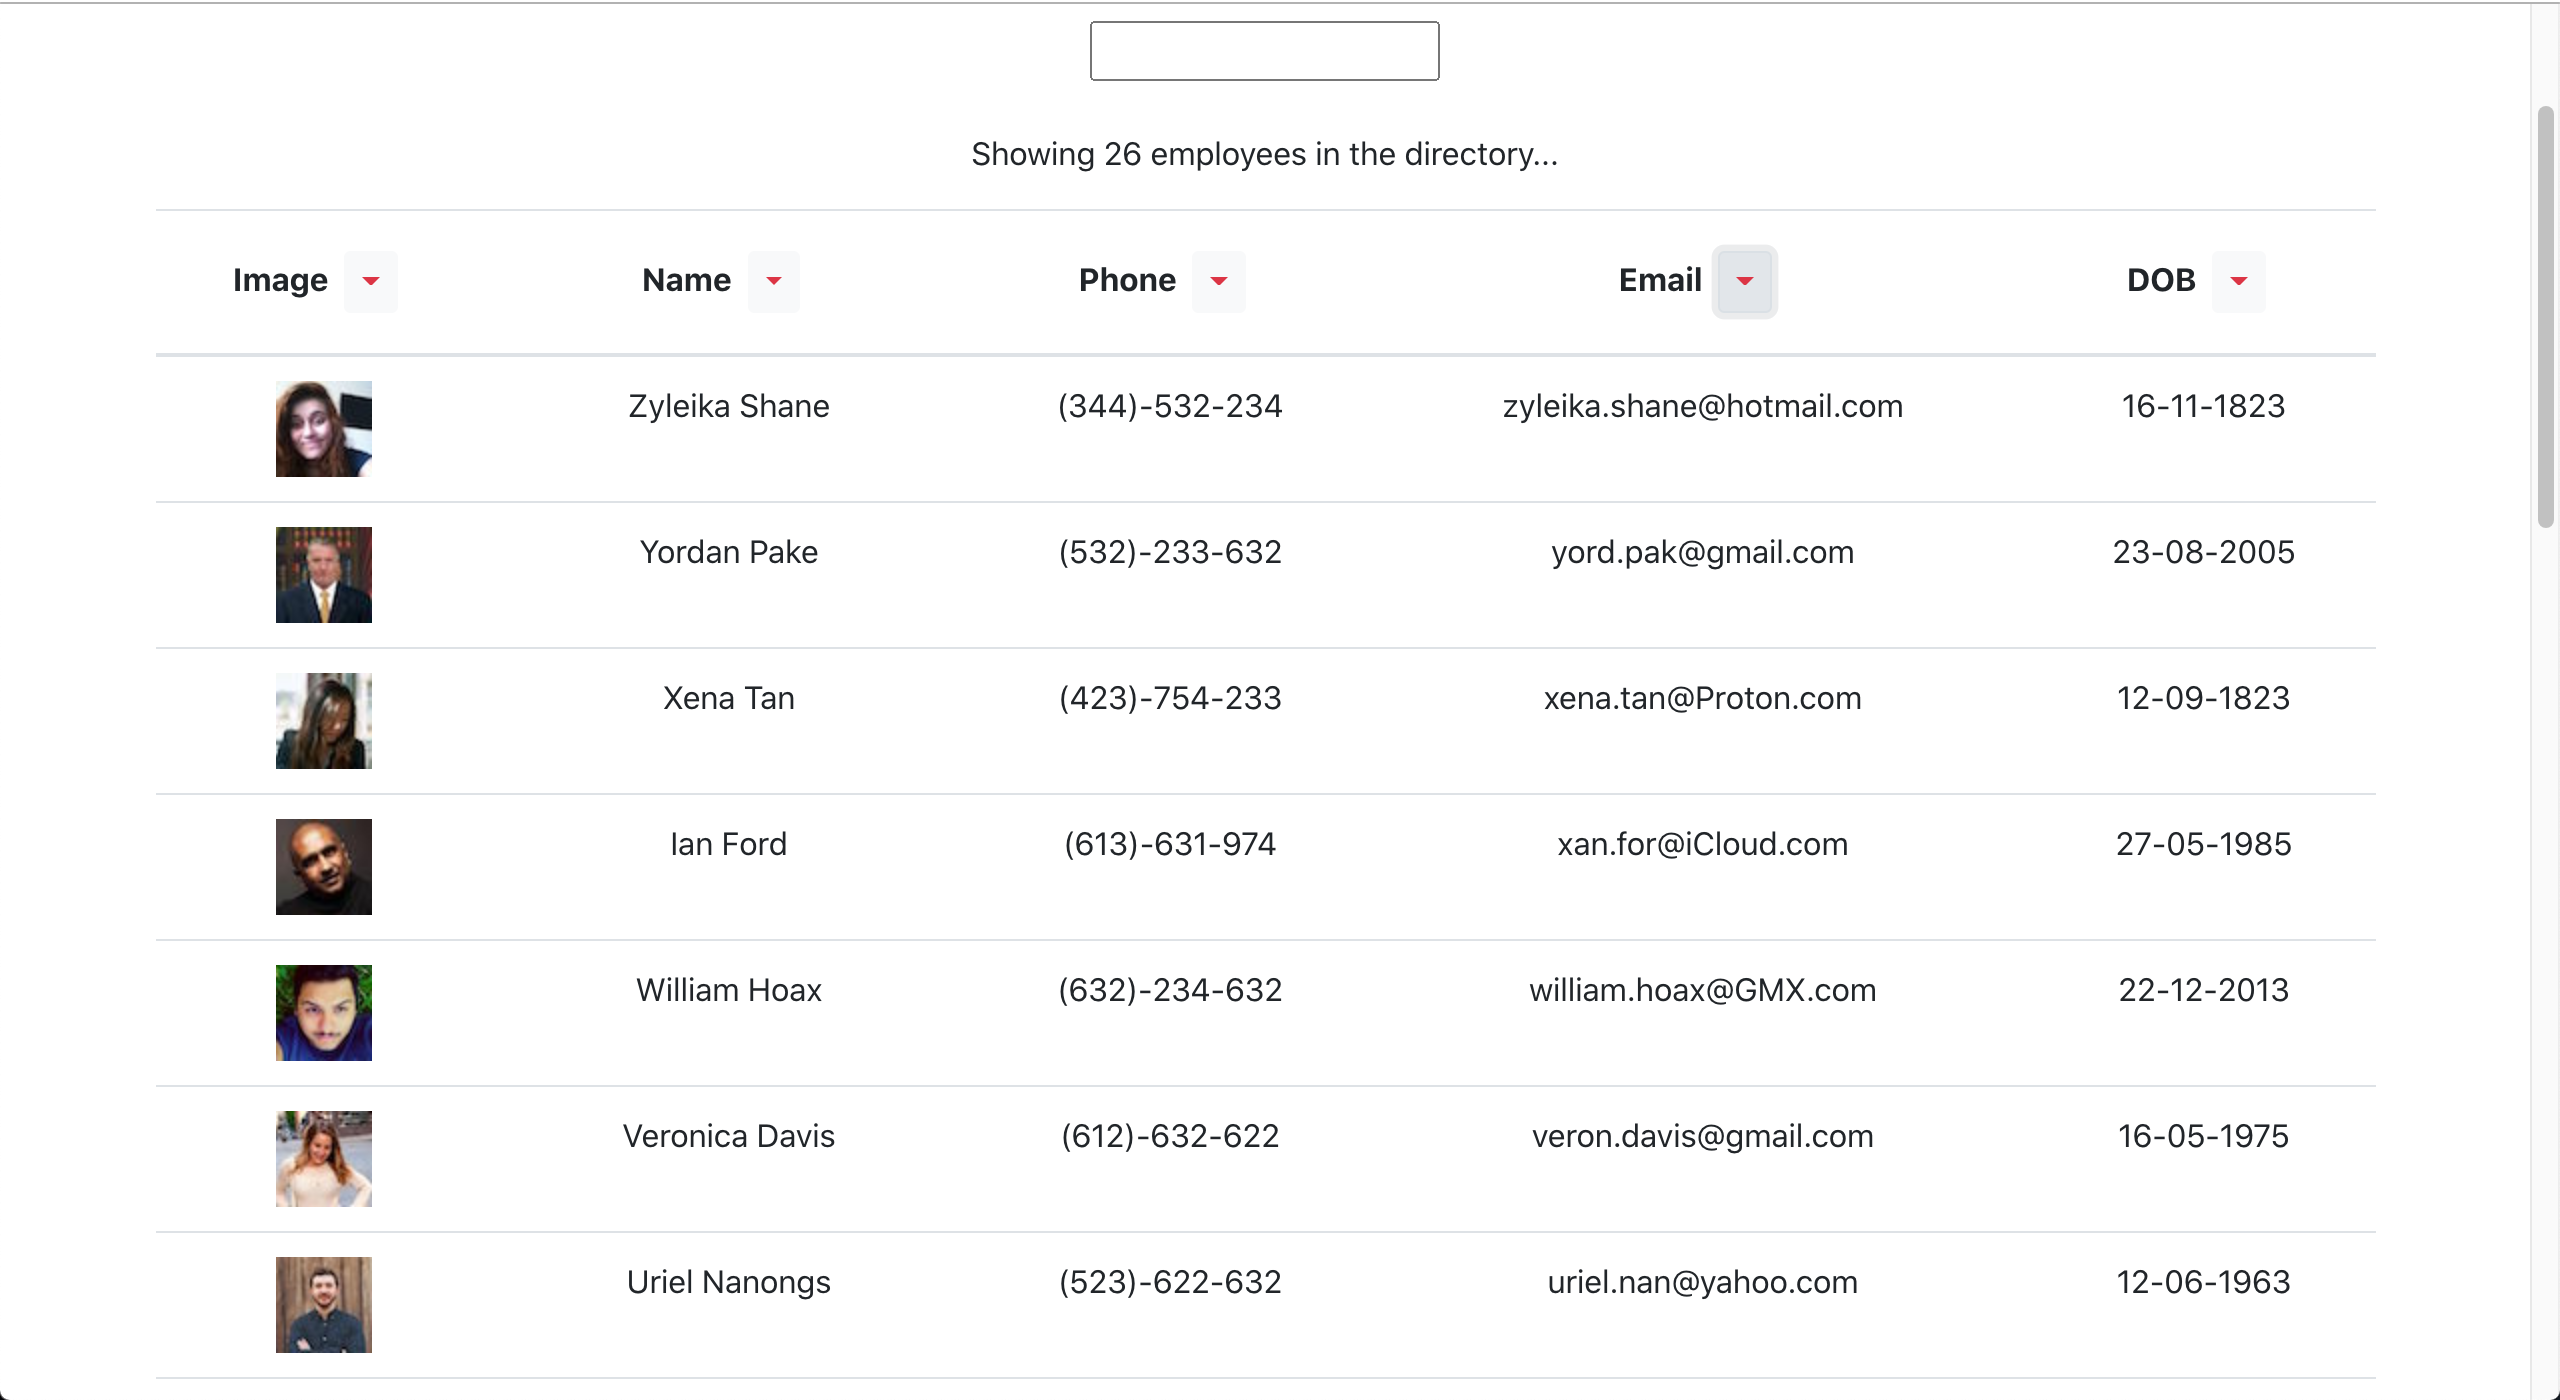
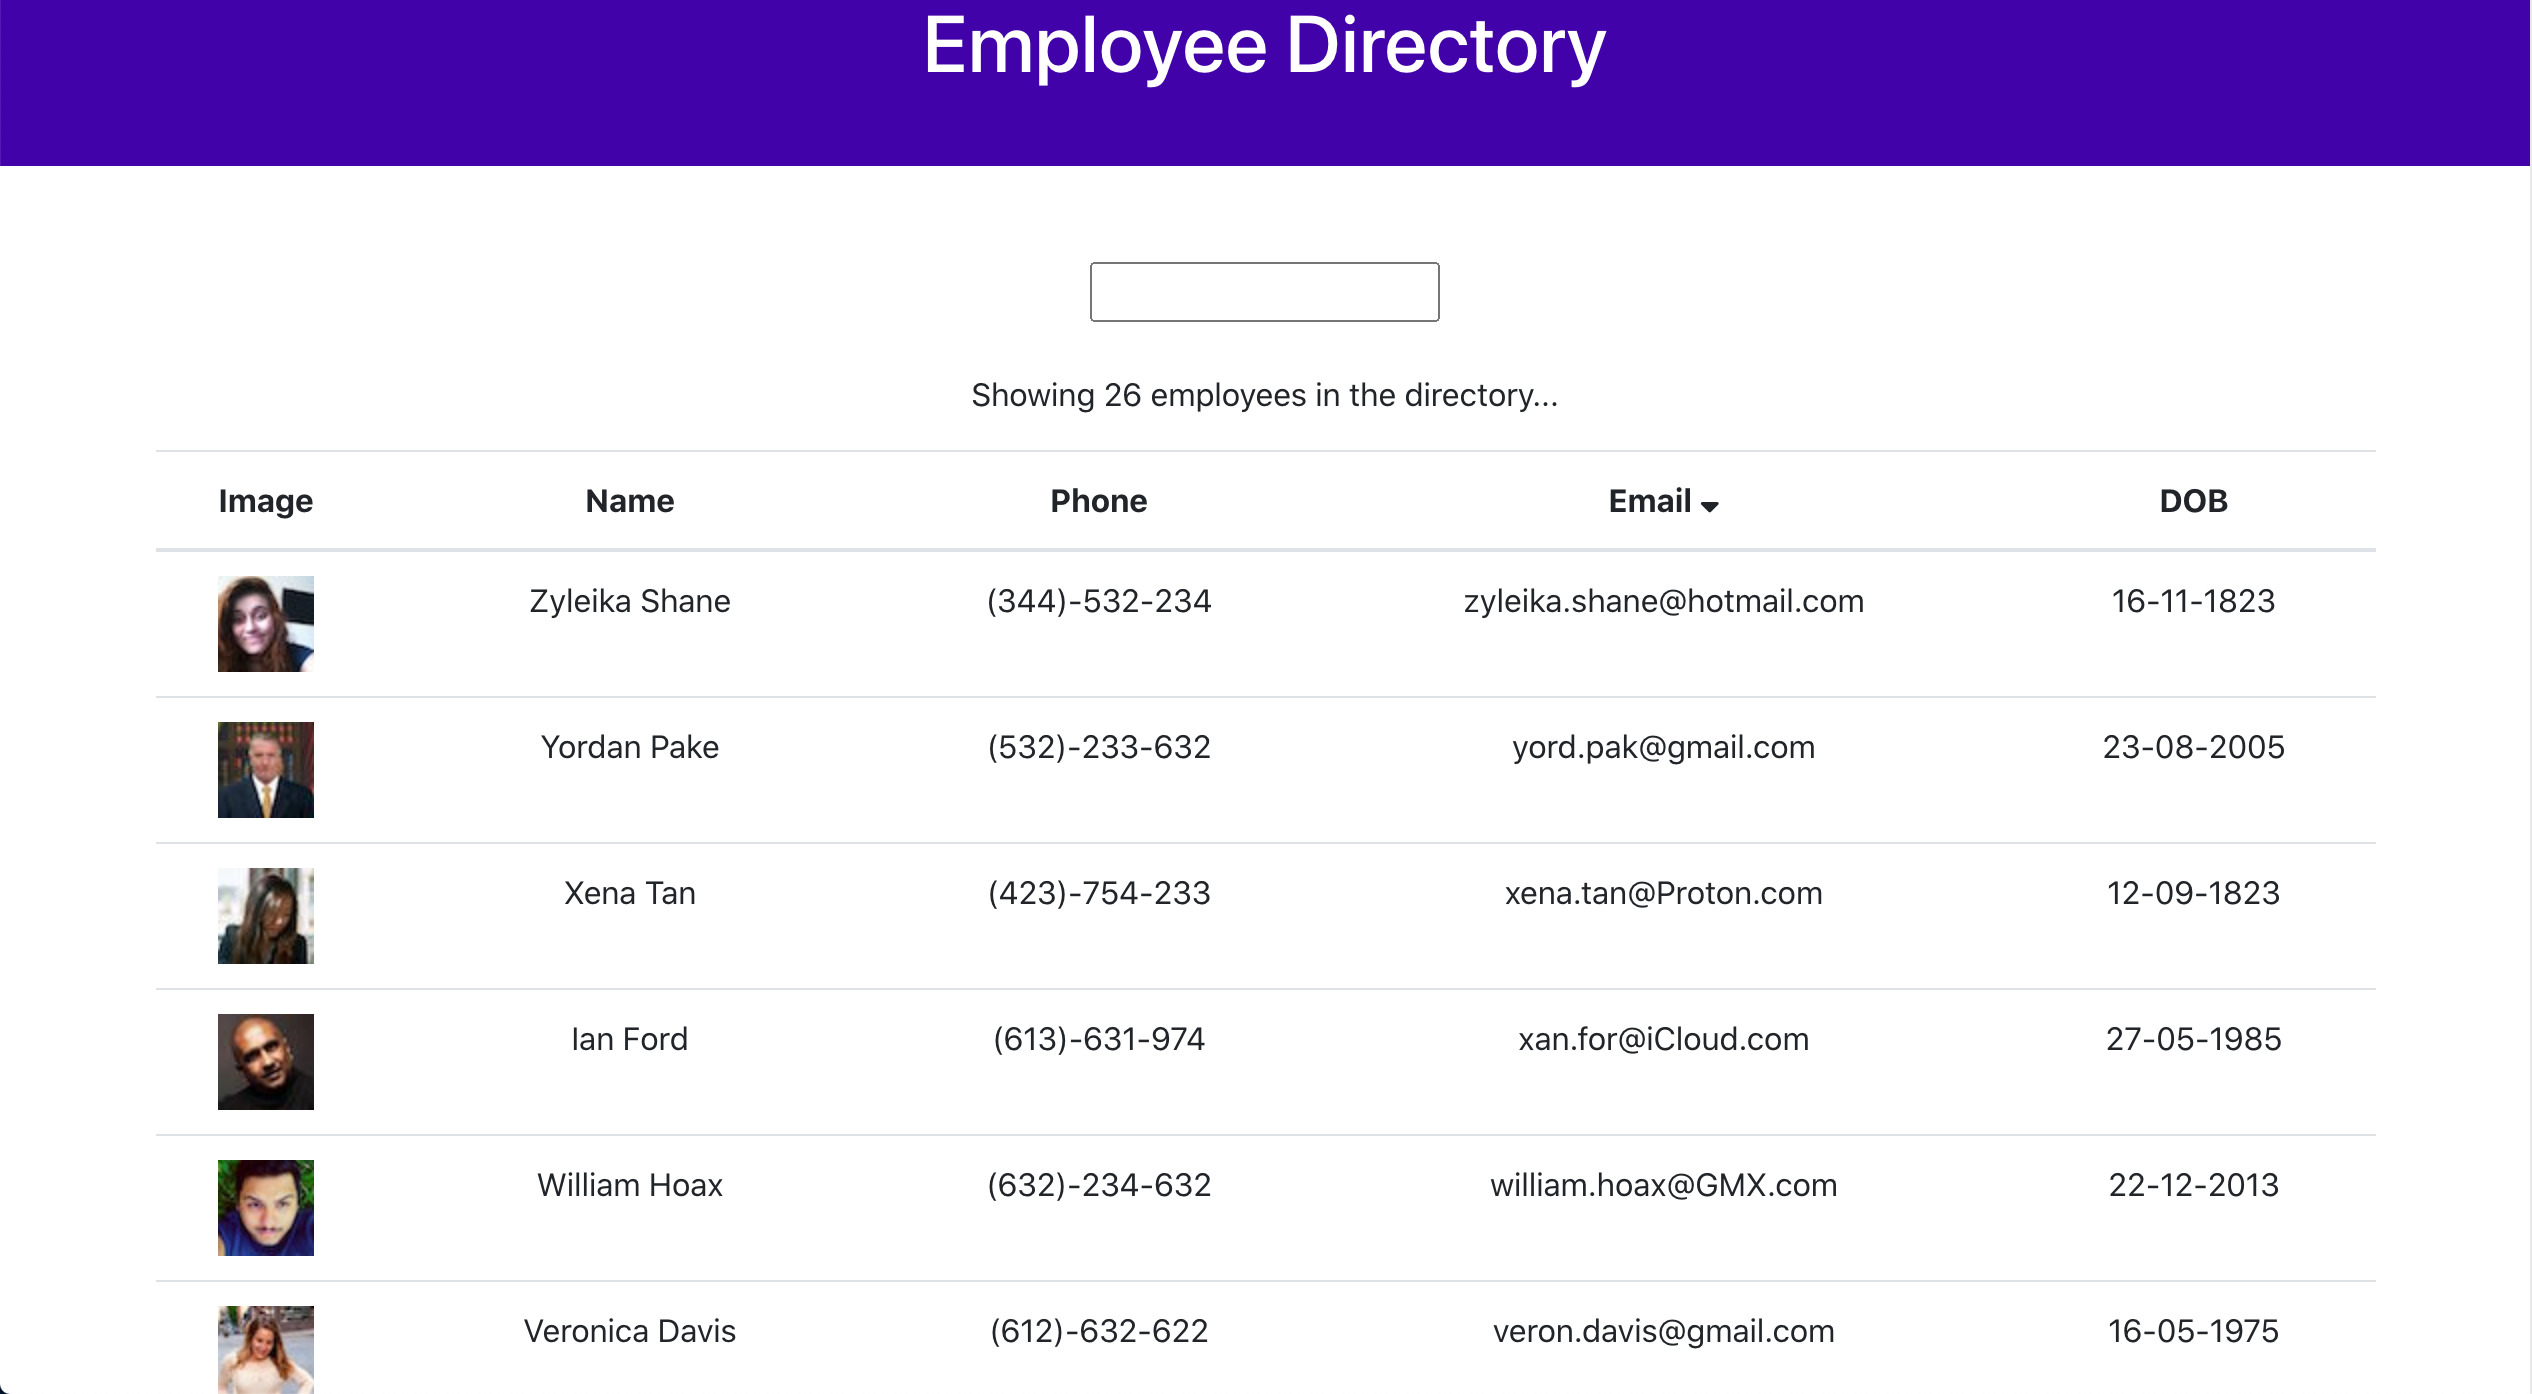
initial commit

diff --git a/src/components/tableHeader.jsx b/src/components/tableHeader.jsx
@@ -1,7 +1,6 @@
 import React, { Component } from "react";
 
 class TableHeader extends Component {
-  
   raiseSort = (path) => {
     const sortColumn = { ...this.props.sortColumn };
     if (sortColumn.path === path)
@@ -13,45 +12,27 @@ class TableHeader extends Component {
     this.props.onSort(sortColumn);
   };
 
+  renderSortIcon = (column) => {
+    const { sortColumn } = this.props;
+    if (column.path !== sortColumn.path) return null;
+    if (sortColumn.order === "asc") return <i className="fa fa-sort-asc"></i>;
+    return <i className="fa fa-sort-desc"></i>;
+  };
+
   render() {
+    const { columns } = this.props;
     return (
       <thead>
         <tr>
-          <th onClick={() => this.raiseSort("image")}>
-            Image
-            <button
-              className="btn btn-light dropdown-toggle btn-sm m-2 text-danger"
-              type="button"
-            ></button>
-          </th>
-          <th onClick={() => this.raiseSort("name")}>
-            Name
-            <button
-              className="btn btn-light dropdown-toggle btn-sm m-2 text-danger"
-              type="button"
-            ></button>
-          </th>
-          <th onClick={() => this.raiseSort("phone")}>
-            Phone
-            <button
-              className="btn btn-light dropdown-toggle btn-sm m-2 text-danger"
-              type="button"
-            ></button>
-          </th>
-          <th onClick={() => this.raiseSort("email")}>
-            Email
-            <button
-              className="btn btn-light dropdown-toggle btn-sm m-2 text-danger"
-              type="button"
-            ></button>
-          </th>
-          <th onClick={() => this.raiseSort("dob")}>
-            DOB
-            <button
-              className="btn btn-light dropdown-toggle btn-sm m-2 text-danger"
-              type="button"
-            ></button>
-          </th>
+          {columns.map((column) => (
+            <th
+              className="clickable"
+              key={column.path}
+              onClick={() => this.raiseSort(column.path)}
+            >
+              {column.label} {this.renderSortIcon(column)}
+            </th>
+          ))}
         </tr>
       </thead>
     );

diff --git a/src/components/employee.jsx b/src/components/employee.jsx
@@ -24,12 +24,10 @@ class Employee extends Component {
   };
 
   render() {
-    
-    const { length: count } = this.state.employees;
+   
+    const { search, sortColumn, employees: allEmployees } = this.state;
 
-    const { employees, search, sortColumn } = this.state;
-
-    let filteredEmployees = employees.filter((employee) => {
+    let filteredEmployees = allEmployees.filter((employee) => {
       return (
         employee.name.first
           .toLowerCase()
@@ -52,7 +50,7 @@ class Employee extends Component {
           />
         </div>
         <br />
-        <p>Showing {count} employees in the directory...</p>
+        <p>Showing {filteredEmployees.length} employees in the directory...</p>
         <EmployeesTable
           employees={(filteredEmployees, sorted)}
           onSort={this.handleSort}

diff --git a/src/components/employeesTable.jsx b/src/components/employeesTable.jsx
@@ -3,6 +3,14 @@ import TableHeader from "./tableHeader";
 import TableBody from "./tableBody";
 
 class EmployeesTable extends Component {
+
+  columns = [
+    { path: 'image', label: 'Image'},
+    { path: 'name', label: 'Name' },
+    { path: 'phone', label: 'Phone' },
+    { path: 'email', label: 'Email' },
+    { path: 'dob', label: 'DOB' }
+  ]
   render() {
     
     const { employees, onSort, sortColumn } = this.props;
@@ -12,6 +20,7 @@ class EmployeesTable extends Component {
         <TableHeader 
         onSort={onSort} 
         sortColumn={sortColumn} 
+        columns={this.columns}
         />
         <TableBody 
         employees={employees} 

diff --git a/public/index.html b/public/index.html
@@ -36,6 +36,10 @@
       integrity="sha384-Q6E9RHvbIyZFJoft+2mJbHaEWldlvI9IOYy5n3zV9zzTtmI3UksdQRVvoxMfooAo"
       crossorigin="anonymous"
     ></script>
+    <script
+      src="https://kit.fontawesome.com/499ea71cb4.js"
+      crossorigin="anonymous"
+    ></script>
     <!--
       Notice the use of %PUBLIC_URL% in the tags above.
       It will be replaced with the URL of the `public` folder during the build.

diff --git a/src/components/tableBody.jsx b/src/components/tableBody.jsx
@@ -1,5 +1,4 @@
-import React, { Component } from "react";
-
+import React from 'react';
 const TableBody = (props) => {
   
   const { employees } = props;

diff --git a/src/index.css b/src/index.css
@@ -11,3 +11,7 @@ code {
   font-family: source-code-pro, Menlo, Monaco, Consolas, 'Courier New',
     monospace;
 }
+
+.clickable {
+  cursor: pointer;
+}
